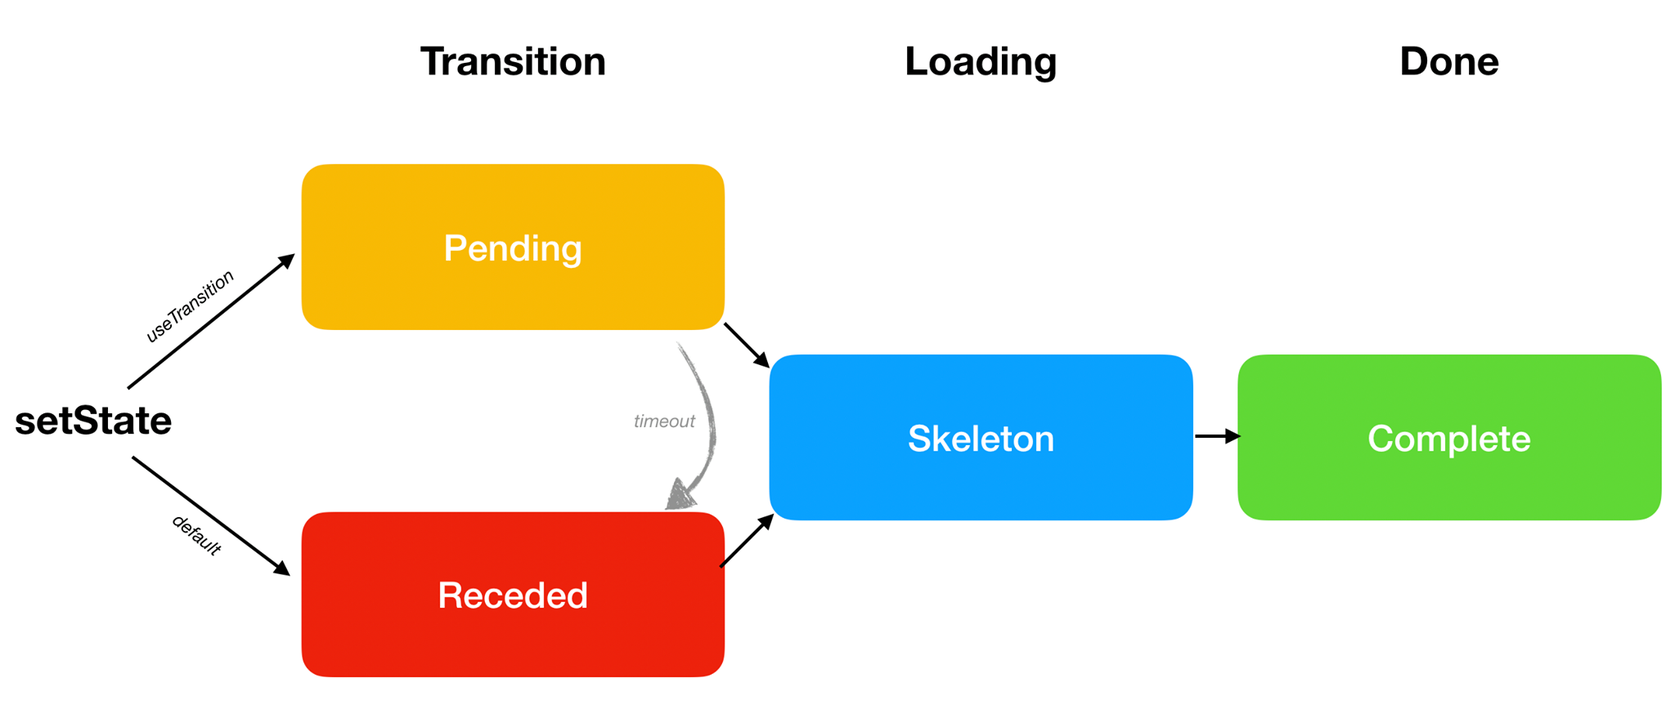
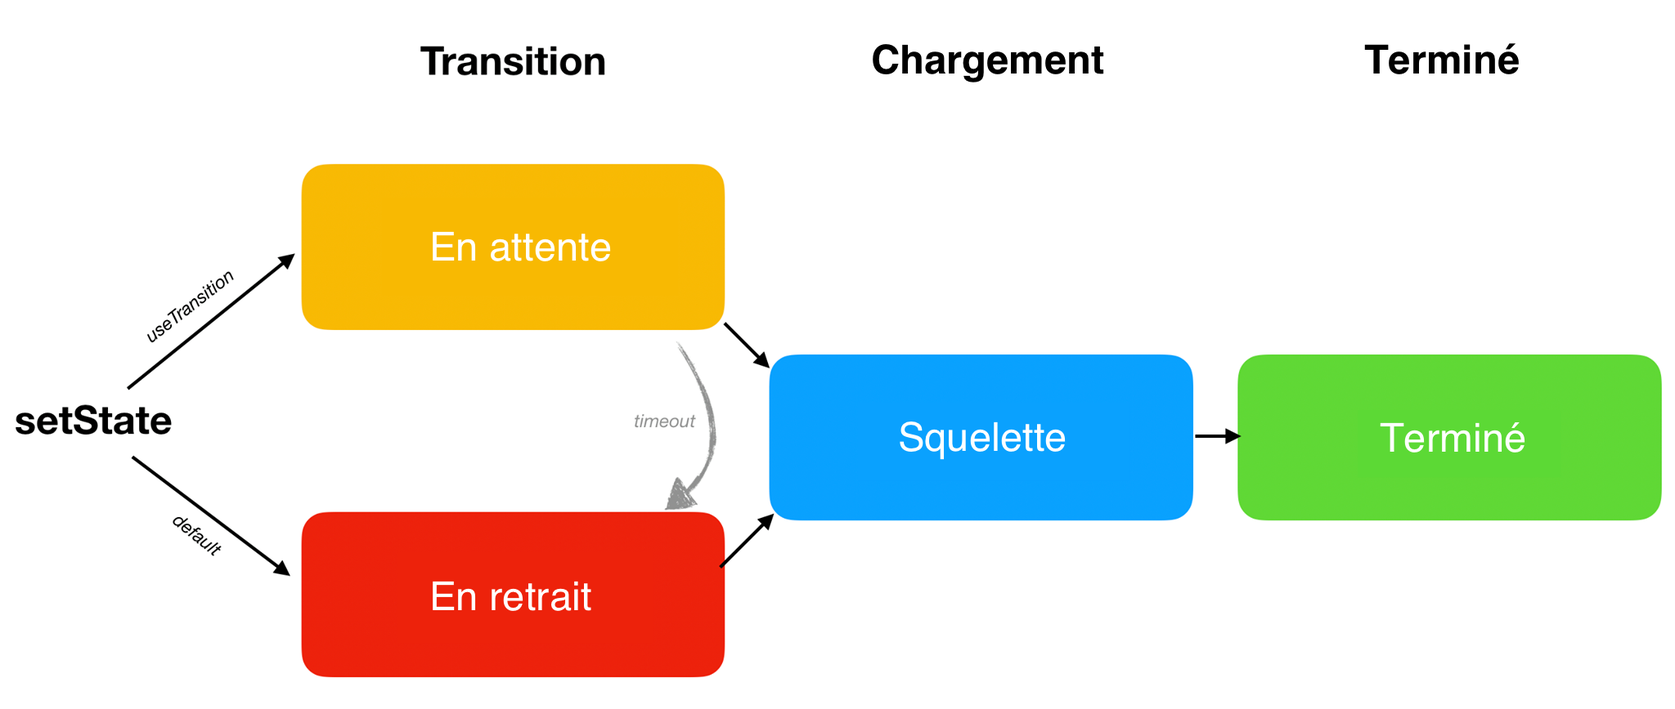
copy(fr): second third of the translation for CM Patterns

diff --git a/content/docs/concurrent-mode-patterns.md b/content/docs/concurrent-mode-patterns.md
@@ -359,46 +359,44 @@ Quand on clique sur un bouton, celui-ci démarre une transition et appelle `prop
 
 On voit maintenant comment le mode concurrent nous aide à obtenir une bonne expérience utilisateur sans pour autant sacrifier l’isolation et la modularité des composants.  React coordonne la transition.
 
-## The Three Steps {#the-three-steps}
+## Les trois étapes {#the-three-steps}
 
-<!-- RESUME -->
-
-By now we have discussed all of the different visual states that an update may go through. In this section, we will give them names and talk about the progression between them.
+À ce stade, nous avons exploré tous les états visuels distincts à travers lesquels passe une mise à jour.  Dans cette section, nous allons leur donner des noms et discuter de la progression de l’un à l’autre.
 
 <br>
 
-<img src="../images/docs/cm-steps-simple.png" alt="Three steps" />
+<img src="../images/docs/cm-steps-simple.png" alt="Trois étapes" />
 
-At the very end, we have the **Complete** state. That's where we want to eventually get to. It represents the moment when the next screen is fully rendered and isn't loading more data.
+Tout au bout, nous avons l’état **Terminé**. C’est là que nous voulons arriver au final.  Il représente le moment où le prochain écran est pleinement affiché et ne charge plus de données supplémentaires.
 
-But before our screen can be Complete, we might need to load some data or code. When we're on the next screen, but some parts of it are still loading, we call that a **Skeleton** state.
+Mais avant que notre écran soit Terminé, nous aurons peut-être besoin de charger des données ou du code. Lorsque nous serons sur le prochain écran, mais que certaines parties seront encore en train de charger, nous appellerons ça l’état **Squelette**.
 
-Finally, there are two primary ways that lead us to the Skeleton state. We will illustrate the difference between them with a concrete example.
+Pour finir, il y a deux principales façons d’arriver à l’état Squelette.  Nous illustrerons la différence entre les deux à l’aide d’un exemple concret.
 
-### Default: Receded → Skeleton → Complete {#default-receded-skeleton-complete}
+### Par défaut : En retrait → Squelette → Terminé {#default-receded-skeleton-complete}
 
-Open [this example](https://codesandbox.io/s/prod-grass-g1lh5) and click "Open Profile". You will see several visual states one by one:
+Ouvrez [cet exemple](https://codesandbox.io/s/prod-grass-g1lh5) et cliquez sur « Ouvrir le profil ». Vous verrez plusieurs états visuels l’un après l’autre :
 
-* **Receded**: For a second, you will see the `<h1>Loading the app...</h1>` fallback.
-* **Skeleton:** You will see the `<ProfilePage>` component with `<h2>Chargement des publications...</h2>` inside.
-* **Complete:** You will see the `<ProfilePage>` component with no fallbacks inside. Everything was fetched.
+* **En retrait** : pendant une seconde, vous verrez l’UI de repli `<h1>Chargement de l’appli...</h1>`.
+* **Squelette** : vous verrez le composant `<ProfilePage>` avec à l’intérieur `<h2>Chargement des publications...</h2>`.
+* **Terminé** : vous verrez le composant `<ProfilePage>` sans UI de repli à l’intérieur.  Tout aura été chargé.
 
-How do we separate the Receded and the Skeleton states? The difference between them is that the **Receded** state feels like "taking a step back" to the user, while the **Skeleton** state feels like "taking a step forward" in our progress to show more content.
+Comment sépare-t-on les états En retrait et Squelette ? La différence tient au fait que l’état **En retrait** donne plus l’impression de « faire un pas en arrière » pour l’utilisateur, alors que l’état **Squelette** donne le sentiment de « faire un pas en avant » dans notre progression vers davantage de contenu.
 
-In this example, we started our journey on the `<HomePage>`:
+Dans cet exemple, nous avons commencé notre parcours sur la `<HomePage>` :
 
 ```js
 <Suspense fallback={...}>
-  {/* previous screen */}
+  {/* écran précédent */}
   <HomePage />
 </Suspense>
 ```
 
-After the click, React started rendering the next screen:
+Après le clic, React a commencé à afficher l’écran suivant :
 
 ```js
 <Suspense fallback={...}>
-  {/* next screen */}
+  {/* prochain écran */}
   <ProfilePage>
     <ProfileDetails />
     <Suspense fallback={...}>
@@ -408,30 +406,30 @@ After the click, React started rendering the next screen:
 </Suspense>
 ```
 
-Both `<ProfileDetails>` and `<ProfileTimeline>` need data to render, so they suspend:
+Tant `<ProfileDetails>` que `<ProfileTimeline>` ont besoin de données pour s’afficher, alors ils se suspendent :
 
 ```js{4,6}
 <Suspense fallback={...}>
-  {/* next screen */}
+  {/* prochain écran */}
   <ProfilePage>
-    <ProfileDetails /> {/* suspends! */}
+    <ProfileDetails /> {/* se suspend ! */}
     <Suspense fallback={<h2>Chargement des publications...</h2>}>
-      <ProfileTimeline /> {/* suspends! */}
+      <ProfileTimeline /> {/* se suspend ! */}
     </Suspense>
   </ProfilePage>
 </Suspense>
 ```
 
-When a component suspends, React needs to show the closest fallback. But the closest fallback to `<ProfileDetails>` is at the top level:
+Quand un composant se suspend, React a besoin d’afficher l’UI de repli la plus proche.  Mais dans le cas de `<ProfileDetails>` celle-ci est au niveau racine :
 
 ```js{2,3,7}
 <Suspense fallback={
-  // We see this fallback now because of <ProfileDetails>
-  <h1>Loading the app...</h1>
+  // On voit cette UI de repli à cause de de <ProfileDetails>
+  <h1>Chargement de l’appli...</h1>
 }>
-  {/* next screen */}
+  {/* prochain écran */}
   <ProfilePage>
-    <ProfileDetails /> {/* suspends! */}
+    <ProfileDetails /> {/* se suspend ! */}
     <Suspense fallback={...}>
       <ProfileTimeline />
     </Suspense>
@@ -439,45 +437,45 @@ When a component suspends, React needs to show the closest fallback. But the clo
 </Suspense>
 ```
 
-This is why when we click the button, it feels like we've "taken a step back". The `<Suspense>` boundary which was previously showing useful content (`<HomePage />`) had to "recede" to showing the fallback (`<h1>Loading the app...</h1>`). We call that a **Receded** state.
+C’est pourquoi lorsque nous cliquons sur un bouton, on a l’impression de « faire un pas en arrière ». Le périmètre `<Suspense>` qui affichait jusque-là du contenu utile (`<HomePage />`) a dû « se mettre en retrait » pour afficher l’UI de repli (`<h1>Chargement de l’appli...</h1>`).  On appelle ça l’état **En retrait**.
 
-As we load more data, React will retry rendering, and `<ProfileDetails>` can render successfully. Finally, we're in the **Skeleton** state. We see the new page with missing parts:
+Au fil du chargement des données, React retentera l’affichage, et `<ProfileDetails>` pourra s’afficher correctement. Nous aboutirons alors à l’état **Squelette**.  On voit la nouvelle page avec des parties manquantes :
 
 ```js{6,7,9}
 <Suspense fallback={...}>
-  {/* next screen */}
+  {/* prochain écran */}
   <ProfilePage>
     <ProfileDetails />
     <Suspense fallback={
-      // We see this fallback now because of <ProfileTimeline>
+      // On voit cette UI de repli à cause de <ProfileTimeline>
       <h2>Chargement des publications...</h2>
     }>
-      <ProfileTimeline /> {/* suspends! */}
+      <ProfileTimeline /> {/* se suspend ! */}
     </Suspense>
   </ProfilePage>
 </Suspense>
 ```
 
-Eventually, they load too, and we get to the **Complete** state.
+Là aussi, au final, nous atteindrons l’état **Terminé**.
 
-This scenario (Receded → Skeleton → Complete) is the default one. However, the Receded state is not very pleasant because it "hides" existing information. This is why React lets us opt into a different sequence (**Pending** → Skeleton → Complete) with `useTransition`.
+Ce scénario (En retrait → Squelette → Terminé) est celui par défaut.  Cependant, l’état En retrait est désagréable parce qu’il « masque » des informations existantes.  C’est pourquoi React nous permet de choisir une séquence différente (**En attente** → Squelette → Terminé) avec `useTransition`.
 
-### Preferred: Pending → Skeleton → Complete {#preferred-pending-skeleton-complete}
+### Préférable : En attente → Squelette → Terminé {#preferred-pending-skeleton-complete}
 
-When we `useTransition`, React will let us "stay" on the previous screen -- and show a progress indicator there. We call that a **Pending** state. It feels much better than the Receded state because none of our existing content disappears, and the page stays interactive.
+Quand nous utilisons `useTransition`, React nous permet de « rester » sur l’écran précédent—et d’y placer un indicateur d’attente.  Nous appelons ça l’état **En attente**.  Le ressenti est nettement meilleur que pour l’état En retrait, car aucun contenu existant ne disparaît, et la page reste interactive.
 
-You can compare these two examples to feel the difference:
+Vous pouvez comparer ces deux exemples pour ressentir la différence :
 
-* Default: [Receded → Skeleton → Complete](https://codesandbox.io/s/prod-grass-g1lh5)
-* **Preferred: [Pending → Skeleton → Complete](https://codesandbox.io/s/focused-snow-xbkvl)**
+* Défaut : [En retrait → Squelette → Terminé](https://codesandbox.io/s/prod-grass-g1lh5)
+* **Préférable : [En attente → Squelette → Terminé](https://codesandbox.io/s/focused-snow-xbkvl)**
 
-The only difference between these two examples is that the first uses regular `<button>`s, but the second one uses our custom `<Button>` component with `useTransition`.
+La seule différence entre ces deux exemples tient à ce que le premier utilise des `<button>` classiques, alors que le second utilise notre composant personnalisé `<Button>`, qui intègre un `useTransition`.
 
-### Wrap Lazy Features in `<Suspense>` {#wrap-lazy-features-in-suspense}
+### Enrobez les fonctionnalités paresseuses avec `<Suspense>` {#wrap-lazy-features-in-suspense}
 
-Open [this example](https://codesandbox.io/s/nameless-butterfly-fkw5q). When you press a button, you'll see the Pending state for a second before moving on. This transition feels nice and fluid.
+Ouvrez [cet exemple](https://codesandbox.io/s/nameless-butterfly-fkw5q). Quand vous activez un bouton, vous voyez l’état En attente pendant une seconde avant de passer à la suite.  Cette transition est agréable et fluide.
 
-We will now add a brand new feature to the profile page -- a list of fun facts about a person:
+Nous allons maintenant ajouter une fonctionnalité toute neuve à la page de profil : une liste de faits amusants relatifs à la personne :
 
 ```js{8,13-25}
 function ProfilePage({ resource }) {
@@ -496,7 +494,7 @@ function ProfileTrivia({ resource }) {
   const trivia = resource.trivia.read();
   return (
     <>
-      <h2>Fun Facts</h2>
+      <h2>Faits amusants</h2>
       <ul>
         {trivia.map(fact => (
           <li key={fact.id}>{fact.text}</li>
@@ -509,11 +507,11 @@ function ProfileTrivia({ resource }) {
 
 **[Essayez sur CodeSandbox](https://codesandbox.io/s/focused-mountain-uhkzg)**
 
-If you press "Open Profile" now, you can tell something is wrong. It takes whole seven seconds to make the transition now! This is because our trivia API is too slow. Let's say we can't make the API faster. How can we improve the user experience with this constraint?
+Si à présent vous activez « Ouvrir le profil », vous verrez que quelque chose cloche.  Ça prend désormais sept bonnes secondes pour effectuer la transition !  C’est parce que notre API de faits amusants est trop lente.  Imaginons que nous ne puissions pas l’accélérer : comment alors améliorer l’expérience utilisateur malgré cette contrainte ?
 
-If we don't want to stay in the Pending state for too long, our first instinct might be to set `timeoutMs` in `useTransition` to something smaller, like `3000`. You can try this [here](https://codesandbox.io/s/practical-kowalevski-kpjg4). This lets us escape the prolonged Pending state, but we still don't have anything useful to show!
+Si nous ne voulons pas rester à l’état En attente trop longtemps, notre premier instinct pourrait être d’ajuster le `timeoutMs` dans `useTransition` pour le réduire, par exemple à `3000`.  Vous pouvez essayer ça [ici](https://codesandbox.io/s/practical-kowalevski-kpjg4).  Ça nous permet d’échapper à un état En attente prolongé, mais ça ne nous donne pas pour autant des contenus utiles à afficher !
 
-There is a simpler way to solve this. **Instead of making the transition shorter, we can "disconnect" the slow component from the transition** by wrapping it into `<Suspense>`:
+Il y a un moyen plus simple de résoudre ça. **Plutôt que d’abréger la transition, nous pouvons « déconnecter » le composant lent de celle-ci** en l’enrobant dans son propre périmètre `<Suspense>` :
 
 ```js{8,10}
 function ProfilePage({ resource }) {
@@ -523,7 +521,7 @@ function ProfilePage({ resource }) {
       <Suspense fallback={<h2>Chargement des publications...</h2>}>
         <ProfileTimeline resource={resource} />
       </Suspense>
-      <Suspense fallback={<h2>Loading fun facts...</h2>}>
+      <Suspense fallback={<h2>Chargement des faits amusants...</h2>}>
         <ProfileTrivia resource={resource} />
       </Suspense>
     </>
@@ -533,19 +531,19 @@ function ProfilePage({ resource }) {
 
 **[Essayez sur CodeSandbox](https://codesandbox.io/s/condescending-shape-s6694)**
 
-This reveals an important insight. React always prefers to go to the Skeleton state as soon as possible. Even if we use transitions with long timeouts everywhere, React will not stay in the Pending state for longer than necessary to avoid the Receded state.
+Voilà qui met en lumière un point important.  React préfèrera toujours arriver à l’état Squelette le plus tôt possible.  Même si nous utilisons partout des transitions à expiration longue, React ne restera pas dans l’état En attente plus longtemps que le strict nécessaire pour éviter l’état En retrait.
 
-**If some feature isn't a vital part of the next screen, wrap it in `<Suspense>` and let it load lazily.** This ensures we can show the rest of the content as soon as possible. Conversely, if a screen is *not worth showing* without some component, such as `<ProfileDetails>` in our example, do *not* wrap it in `<Suspense>`. Then the transitions will "wait" for it to be ready.
+**Si une fonctionnalité ne constitue pas une partie vitale du prochain écran, enrobez-la dans un `<Suspense>` pour la laisser se charger paresseusement.**  Vous garantissez ainsi que le reste du contenu sera visible le plus tôt possible.  Réciproquement, si un écran *n’a aucun intérêt à être affiché* sans un composant donné, tel que `<ProfileDetails>` dans notre exemple, ne *l’enrobez pas* dans un `<Suspense>`.  Ainsi les transitions « attendront » que ce composant soit disponible.
 
-### Suspense Reveal "Train" {#suspense-reveal-train}
+### Le « train » de révélations de Suspense {#suspense-reveal-train}
 
-When we're already on the next screen, sometimes the data needed to "unlock" different `<Suspense>` boundaries arrives in quick succession. For example, two different responses might arrive after 1000ms and 1050ms, respectively. If you've already waited for a second, waiting another 50ms is not going to be perceptible. This is why React reveals `<Suspense>` boundaries on a schedule, like a "train" that arrives periodically. This trades a small delay for reducing the layout thrashing and the number of visual changes presented to the user.
+Lorsque nous sommes déjà sur le prochain écran, il peut arriver que les données nécessaires pour « déverrouiller » des périmètres `<Suspense>` distincts arrivent en succession rapide.  Par exemple, deux réponses distinctes pourraient arriver respectivement après 1 000 et 1 050 ms. Si vous avez déjà attendu une seconde, vous ne percevrez pas l’attente supplémentaire de 50 ms.  C’est pourquoi React ne révèle les périmètres `<Suspense>` que selon un horaire déterminé, comme un « train » qui arriverait périodiquement.  Il échange un court délai contre une réduction des modifications majeures à la mise en page et du nombre de changements visuels présentés à l’utilisateur.
 
-You can see a demo of this [here](https://codesandbox.io/s/admiring-mendeleev-y54mk). The "posts" and "fun facts" responses come within 100ms of each other. But React coalesces them and "reveals" their Suspense boundaries together.
+Vous pouvez voir une démo de ça [ici](https://codesandbox.io/s/admiring-mendeleev-y54mk).  Les réponses « publications » et « faits amusants » arrivent à 100 ms l’une de l’autre.  Mais React les regroupe pour « révéler » leurs périmètres en une seule passe.
 
-### Delaying a Pending Indicator {#delaying-a-pending-indicator}
+### Différer un indicateur d’attente {#delaying-a-pending-indicator}
 
-Our `Button` component will immediately show the Pending state indicator on click:
+Notre composant `Button` affichera immédiatement l’indicateur d’attente une fois cliqué :
 
 ```js{2,13}
 function Button({ children, onClick }) {
@@ -568,9 +566,9 @@ function Button({ children, onClick }) {
 
 **[Essayez sur CodeSandbox](https://codesandbox.io/s/floral-thunder-iy826)**
 
-This signals to the user that some work is happening. However, if the transition is relatively short (less than 500ms), it might be too distracting and make the transition itself feel *slower*.
+Ça signale à l’utilisateur qu’un travail a lieu.  Toutefois, si cette transition est relativement courte (disons, moins de 500 ms), cet affichage est plus une distraction qu’autre chose et peut faire que la transition elle-même semble *plus lente*.
 
-One possible solution to this is to *delay the spinner itself* from displaying:
+Une solution possible à ça consiste à *différer l’affichage du _spinner_ lui-même* :
 
 ```css
 .DelayedSpinner {
@@ -602,23 +600,23 @@ return (
 
 **[Essayez sur CodeSandbox](https://codesandbox.io/s/gallant-spence-l6wbk)**
 
-With this change, even though we're in the Pending state, we don't display any indication to the user until 500ms has passed. This may not seem like much of an improvement when the API responses are slow. But compare how it feels [before](https://codesandbox.io/s/thirsty-liskov-1ygph) and [after](https://codesandbox.io/s/hardcore-http-s18xr) when the API call is fast. Even though the rest of the code hasn't changed, suppressing a "too fast" loading state improves the perceived performance by not calling attention to the delay.
+Avec cette modification, même si nous sommes dans l’état En attente, nous n’affichons aucune indication à l’utilisateur jusqu’à ce que 500 ms se soient écoulés.  Ça peut sembler une amélioration superflue quand les réponses API sont lentes.  Mais comparez le ressenti [avant](https://codesandbox.io/s/thirsty-liskov-1ygph) et [après](https://codesandbox.io/s/hardcore-http-s18xr) lorsque l’appel API est rapide. Même si le reste du code n’a pas changé, supprimer un état de chargement « trop rapide » améliore les performances perçues en évitant d’attirer l’attention de l’utilisateur.
 
-### Recap {#recap}
+### En résumé {#recap}
 
-The most important things we learned so far are:
+Les points les plus importants que nous avons appris jusqu’à présent sont :
 
-* By default, our loading sequence is Receded → Skeleton → Complete.
-* The Receded state doesn't feel very nice because it hides existing content.
-* With `useTransition`, we can opt into showing a Pending state first instead. This will keep us on the previous screen while the next screen is being prepared.
-* If we don't want some component to delay the transition, we can wrap it in its own `<Suspense>` boundary.
-* Instead of doing `useTransition` in every other component, we can build it into our design system.
+* Par défaut, notre séquence de chargement est En retrait → Squelette → Terminé.
+* L’état En retrait n’est pas très agréable parce qu’il masque du contenu existant.
+* Avec `useTransition`, nous pouvons choisir de commencer plutôt par un état En attente.  Ça nous gardera sur l’écran précédent pendant que le prochain se prépare.
+* Si nous ne voulons pas qu’un composant ralentisse une transition, nous pouvons l’enrober dans son propre périmètre `<Suspense>`.
+* Plutôt que de faire un `useTransition` au sein de tous nos composants, nous pouvons l’intégrer à notre système de conception.
 
-## Other Patterns {#other-patterns}
+## Autres approches {#other-patterns}
 
 Transitions are probably the most common Concurrent Mode pattern you'll encounter, but there are a few more patterns you might find useful.
 
-### Splitting High and Low Priority State {#splitting-high-and-low-priority-state}
+### Dissocier les états à forte et faible priorité {#splitting-high-and-low-priority-state}
 
 When you design React components, it is usually best to find the "minimal representation" of state. For example, instead of keeping `firstName`, `lastName`, and `fullName` in state, it's usually better keep only `firstName` and `lastName`, and then calculate `fullName` during rendering. This lets us avoid mistakes where we update one state but forget the other state.
 
@@ -727,7 +725,7 @@ function handleChange(e) {
 
 With this change, it works as expected. We can type into the input immediately, and the translation later "catches up" to what we have typed.
 
-### Deferring a Value {#deferring-a-value}
+### Différer une valeur {#deferring-a-value}
 
 By default, React always renders a consistent UI. Consider code like this:
 
@@ -857,7 +855,7 @@ How is this different from debouncing? Our example has a fixed artificial delay 
 
 Even though there is an improvement in responsiveness, this example isn't as compelling yet because Concurrent Mode is missing some crucial optimizations for this use case. Still, it is interesting to see that features like `useDeferredValue` (or `useTransition`) are useful regardless of whether we're waiting for network or for computational work to finish.
 
-### SuspenseList {#suspenselist}
+### `SuspenseList` {#suspenselist}
 
 `<SuspenseList>` is the last pattern that's related to orchestrating loading states.
 
@@ -871,7 +869,7 @@ function ProfilePage({ resource }) {
       <Suspense fallback={<h2>Chargement des publications...</h2>}>
         <ProfileTimeline resource={resource} />
       </Suspense>
-      <Suspense fallback={<h2>Loading fun facts...</h2>}>
+      <Suspense fallback={<h2>Loading faits amusants...</h2>}>
         <ProfileTrivia resource={resource} />
       </Suspense>
     </>
@@ -881,14 +879,14 @@ function ProfilePage({ resource }) {
 
 **[Essayez sur CodeSandbox](https://codesandbox.io/s/proud-tree-exg5t)**
 
-The API call duration in this example is randomized. If you keep refreshing it, you will notice that sometimes the posts arrive first, and sometimes the "fun facts" arrive first.
+The API call duration in this example is randomized. If you keep refreshing it, you will notice that sometimes the posts arrive first, and sometimes the "faits amusants" arrive first.
 
-This presents a problem. If the response for fun facts arrives first, we'll see the fun facts below the `<h2>Chargement des publications...</h2>` fallback for posts. We might start reading them, but then the *posts* response will come back, and shift all the facts down. This is jarring.
+This presents a problem. If the response for faits amusants arrives first, we'll see the faits amusants below the `<h2>Chargement des publications...</h2>` fallback for posts. We might start reading them, but then the *posts* response will come back, and shift all the facts down. This is jarring.
 
 One way we could fix it is by putting them both in a single boundary:
 
 ```js
-<Suspense fallback={<h2>Chargement des publications and fun facts...</h2>}>
+<Suspense fallback={<h2>Chargement des publications and faits amusants...</h2>}>
   <ProfileTimeline resource={resource} />
   <ProfileTrivia resource={resource} />
 </Suspense>
@@ -896,7 +894,7 @@ One way we could fix it is by putting them both in a single boundary:
 
 **[Essayez sur CodeSandbox](https://codesandbox.io/s/currying-violet-5jsiy)**
 
-The problem with this is that now we *always* wait for both of them to be fetched. However, if it's the *posts* that came back first, there's no reason to delay showing them. When fun facts load later, they won't shift the layout because they're already below the posts.
+The problem with this is that now we *always* wait for both of them to be fetched. However, if it's the *posts* that came back first, there's no reason to delay showing them. When faits amusants load later, they won't shift the layout because they're already below the posts.
 
 Other approaches to this, such as composing Promises in a special way, are increasingly difficult to pull off when the loading states are located in different components down the tree.
 
@@ -916,7 +914,7 @@ function ProfilePage({ resource }) {
       <Suspense fallback={<h2>Chargement des publications...</h2>}>
         <ProfileTimeline resource={resource} />
       </Suspense>
-      <Suspense fallback={<h2>Loading fun facts...</h2>}>
+      <Suspense fallback={<h2>Loading faits amusants...</h2>}>
         <ProfileTrivia resource={resource} />
       </Suspense>
     </SuspenseList>
@@ -932,7 +930,7 @@ You can control how many loading states are visible at once with the `tail` prop
 
 Keep in mind that `<SuspenseList>` is composable, like anything in React. For example, you can create a grid by putting several `<SuspenseList>` rows inside a `<SuspenseList>` table.
 
-## Next Steps {#next-steps}
+## Prochaines étapes {#next-steps}
 
 Concurrent Mode offers a powerful UI programming model and a set of new composable primitives to help you orchestrate delightful user experiences.
 
